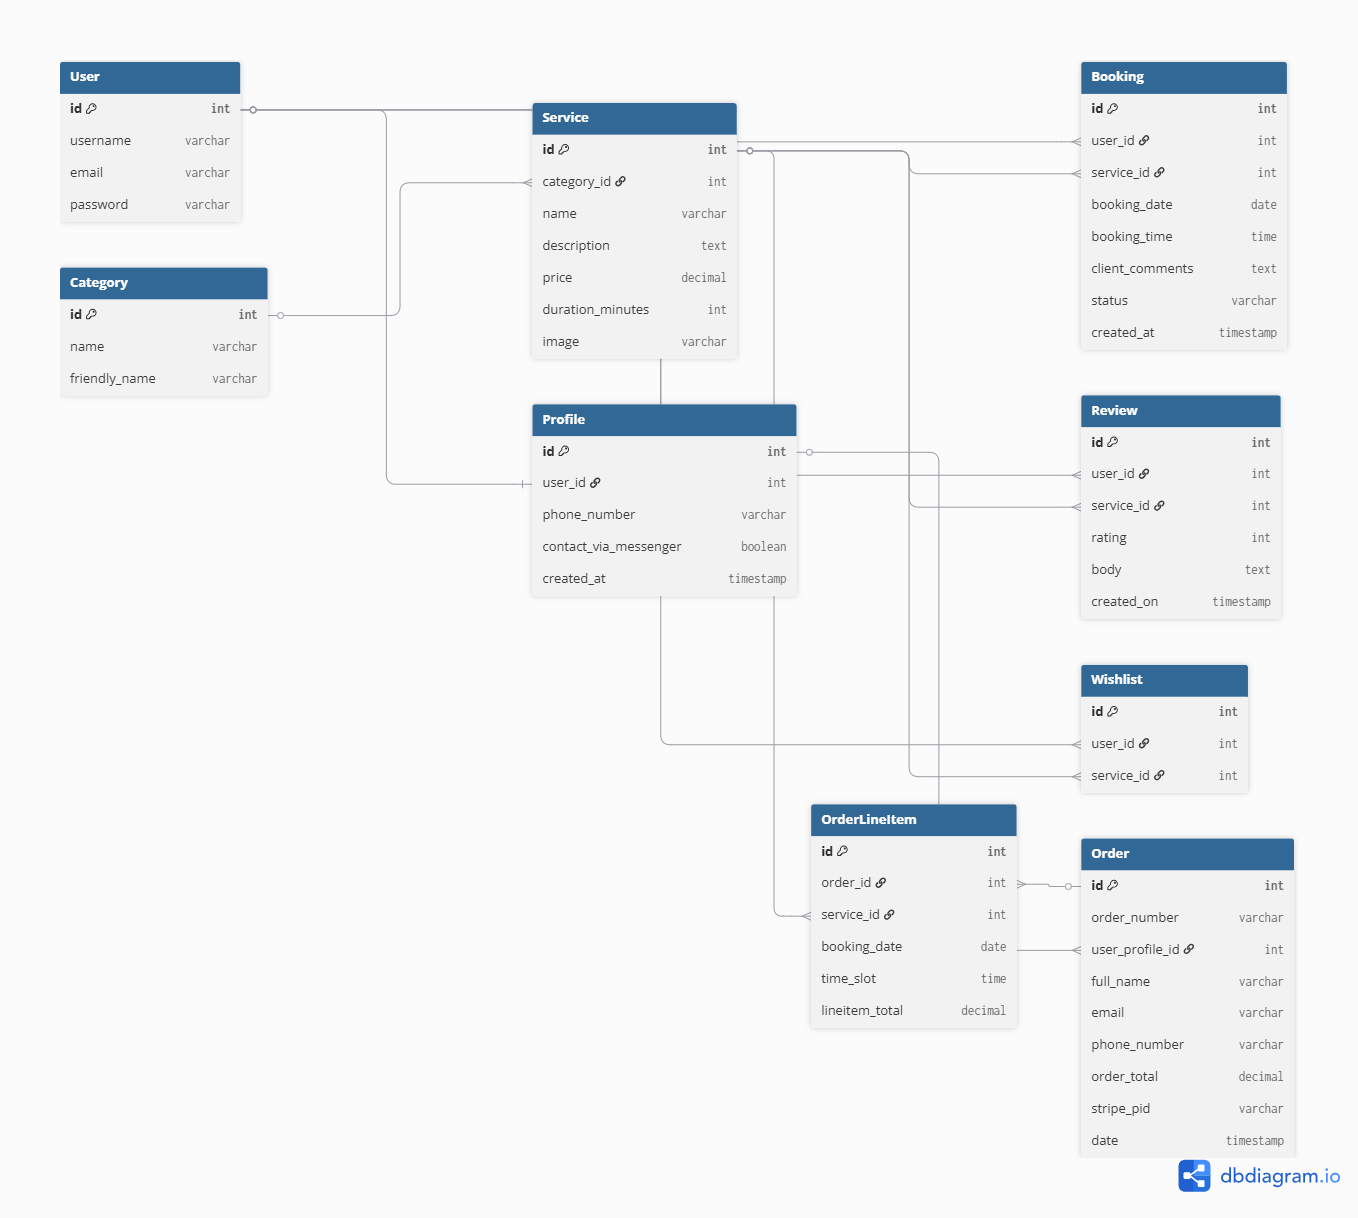
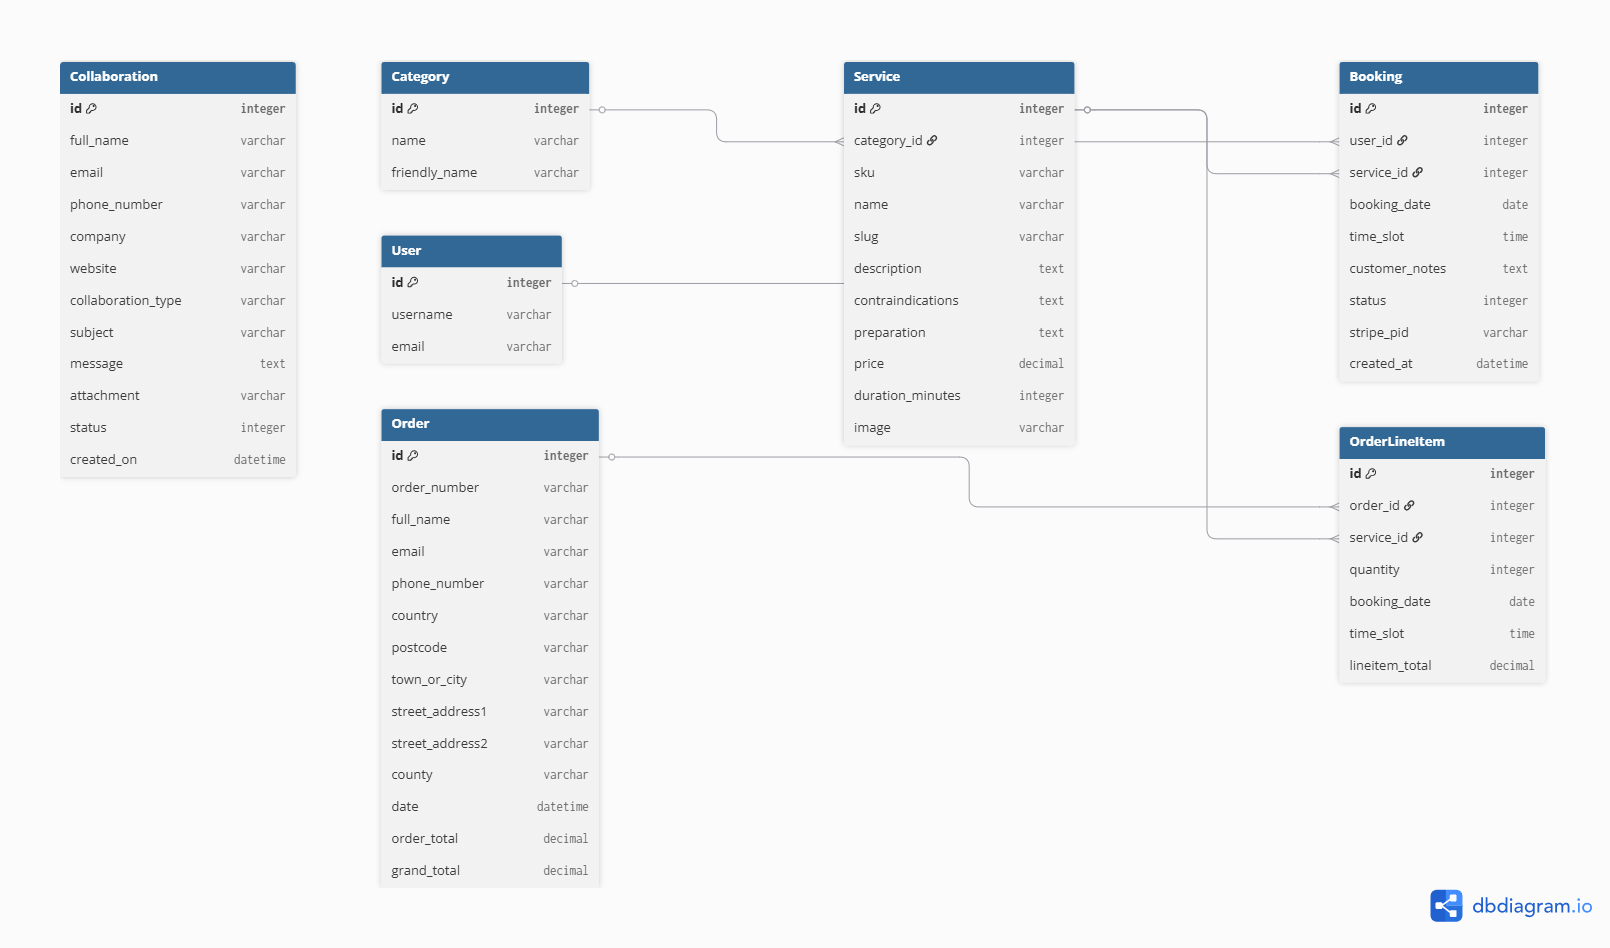
docs: rewrite Database Design section to reflect actual models

diff --git a/README.md b/README.md
@@ -90,32 +90,43 @@ The following diagram illustrates the database schema and the relationships betw
 
 ### Data Models
 
-#### **User & Profile**
-* **User Model (Standard Django):** Used for authentication and basic account information.
-* **UserProfile Model:** Extends the User model to store therapist-specific data or client contact details and default billing information.
+#### **Category** (`services` app)
+Used to organise treatments into logical groups (e.g. Sports Massage, Spa & Wellness, Injury Recovery). Each category has a `name` and an optional `friendly_name` for display purposes.
 
-#### **Category & Service**
-* **Category Model:** Used to organize treatments into logical groups (e.g., Sports Massage, Rehabilitation, Gift Certificates).
-* **Service Model:** Stores detailed information about each treatment, including pricing, duration (in minutes), and associated imagery.
+#### **Service** (`services` app)
+Stores detailed information about each treatment offered, including:
+- `name`, `description`, `price`, `duration_minutes`, and `image`
+- Therapy-specific fields: `preparation` (pre-session guidance) and `contraindications` (medical warnings)
+- A `slug` field, automatically generated from the service name
+- An optional `category` foreign key linking to `Category`
 
-#### **E-commerce & Checkout (Transactional)**
-* **Order Model:** Handles the financial transaction details, storing customer billing info, total costs, and the unique Stripe payment intent ID.
-* **OrderLineItem Model:** Acts as a junction holding the specific services purchased within a single order, storing the historical price and selected date/time of the booking at the moment of purchase.
+#### **Booking** (`booking` app)
+The core of the appointment system. Records the date and time slot a registered user has booked for a specific service.
+- Linked to both `User` (Django's built-in auth model) and `Service`
+- `status` field tracks the booking lifecycle: Pending Payment, Confirmed, Completed, Cancelled
+- `stripe_pid` stores the related Stripe payment intent ID
+- Validation logic (`clean()`) prevents bookings on past dates or weekends
+- A `unique_together` constraint on `booking_date`, `time_slot`, and `service` prevents double-booking the same slot
 
-#### **Booking (Scheduling)**
-* **Booking Model:** The core of the appointment system. It records the specific date and time a User schedules a Service, effectively turning an `OrderLineItem` into a calendar event. It includes status tracking (e.g., Confirmed, Cancelled).
+#### **Order** (`checkout` app)
+Stores order and customer billing information for a completed checkout, including a unique, auto-generated `order_number`, contact details, and running totals (`order_total`, `grand_total`) calculated from its line items.
 
-#### **User Interaction & Social**
-* **Review Model:** Enables registered users to provide feedback and ratings for services they have attended, providing essential social proof for the practice.
-* **Wishlist Model:** Allows clients to save sessions they are interested in for future booking.
+#### **OrderLineItem** (`checkout` app)
+Represents a single booked service within an order. Stores the `service`, `quantity`, `booking_date`, `time_slot`, and the `lineitem_total` (calculated automatically from the service price at the time of purchase).
+
+#### **Collaboration** (`collaborations` app)
+Stores collaboration requests submitted by potential partners or organisations, including contact details, the type of collaboration requested (guest blog, workshop, partnership, etc.), a message, an optional file attachment, and a status field for tracking the request (New, Under Review, Accepted, Declined).
 
 ### Relationships Summary
-* **One-to-One:** * `User` is linked to a unique `UserProfile`.
-* **One-to-Many:** * `Category` contains multiple `Services`.
-  * `User` can have multiple `Bookings`, `Reviews`, `Wishlists`, and `Orders`.
-  * `Service` can be associated with multiple `Bookings`, `Reviews`, and `OrderLineItems`.
-  * `Order` contains multiple `OrderLineItems`.
-* **Many-to-Many:** * `User` and `Service` are linked via the `Wishlist` table (depending on implementation, this acts as a junction).
+
+* **One-to-Many**
+  - `Category` can have multiple `Service` records.
+  - `Service` can have multiple `Booking` and `OrderLineItem` records.
+  - `User` can have multiple `Booking` records.
+  - `Order` contains multiple `OrderLineItem` records.
+
+* **Standalone**
+  - `Collaboration` is a standalone model used to capture collaboration enquiries via a public form; it is not linked to other models.
 
 ## Technologies Used
 
